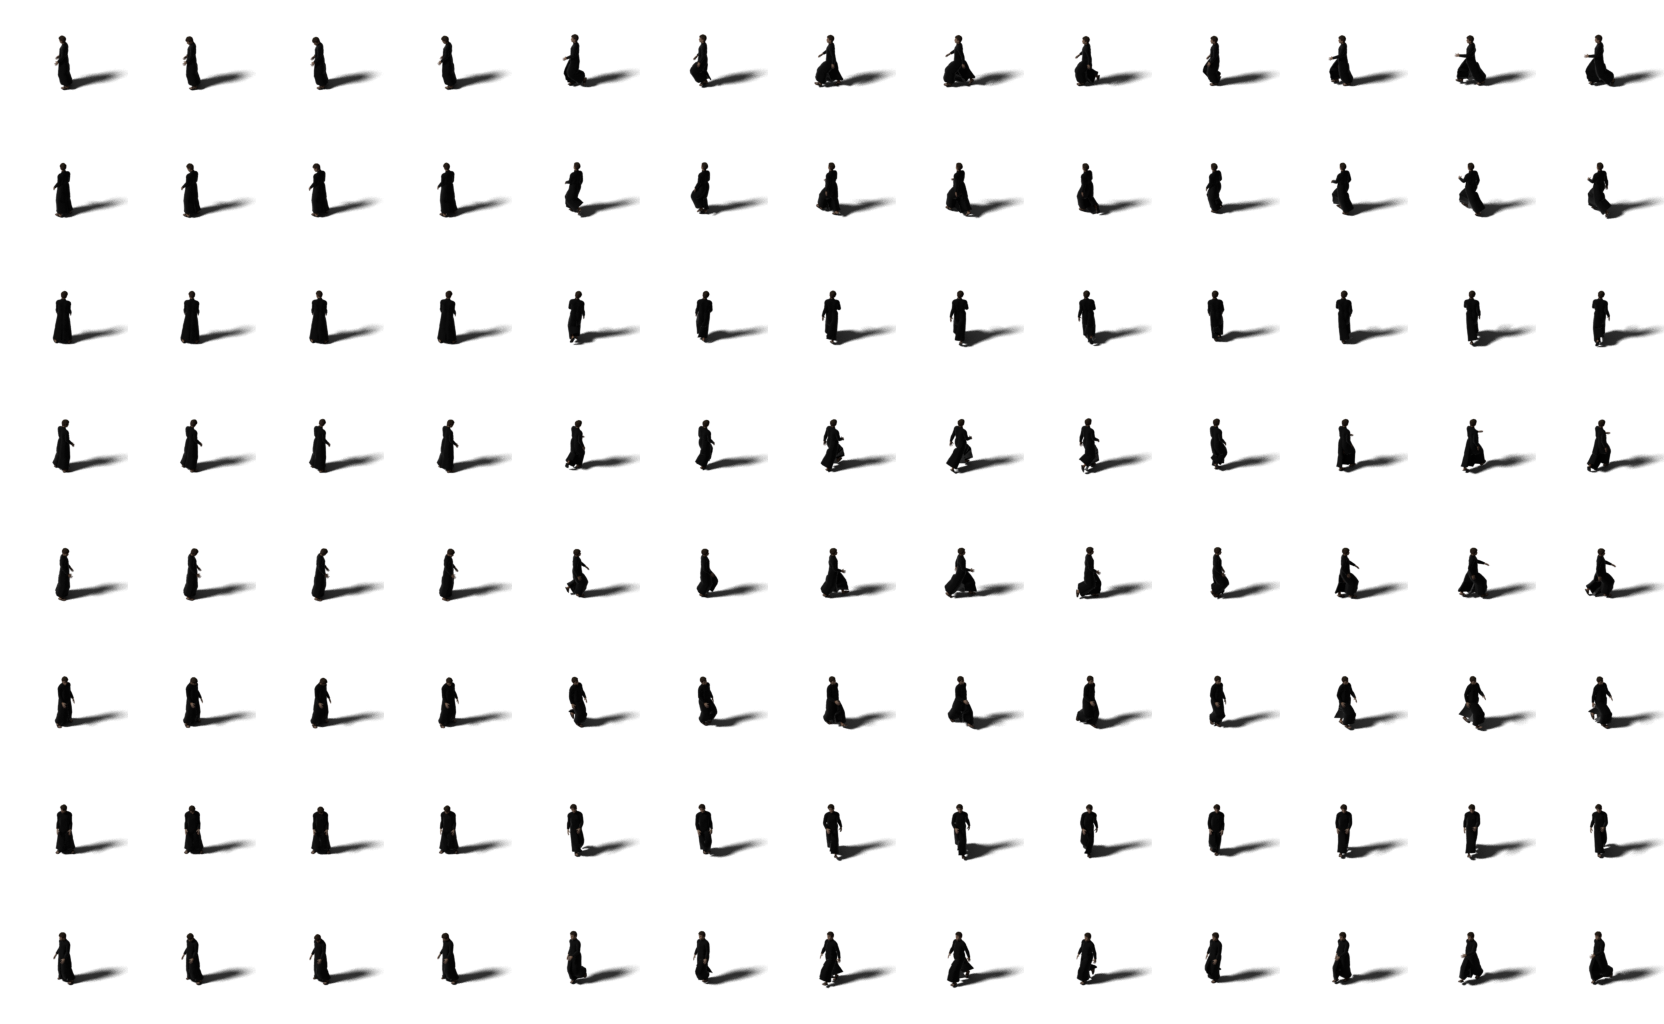
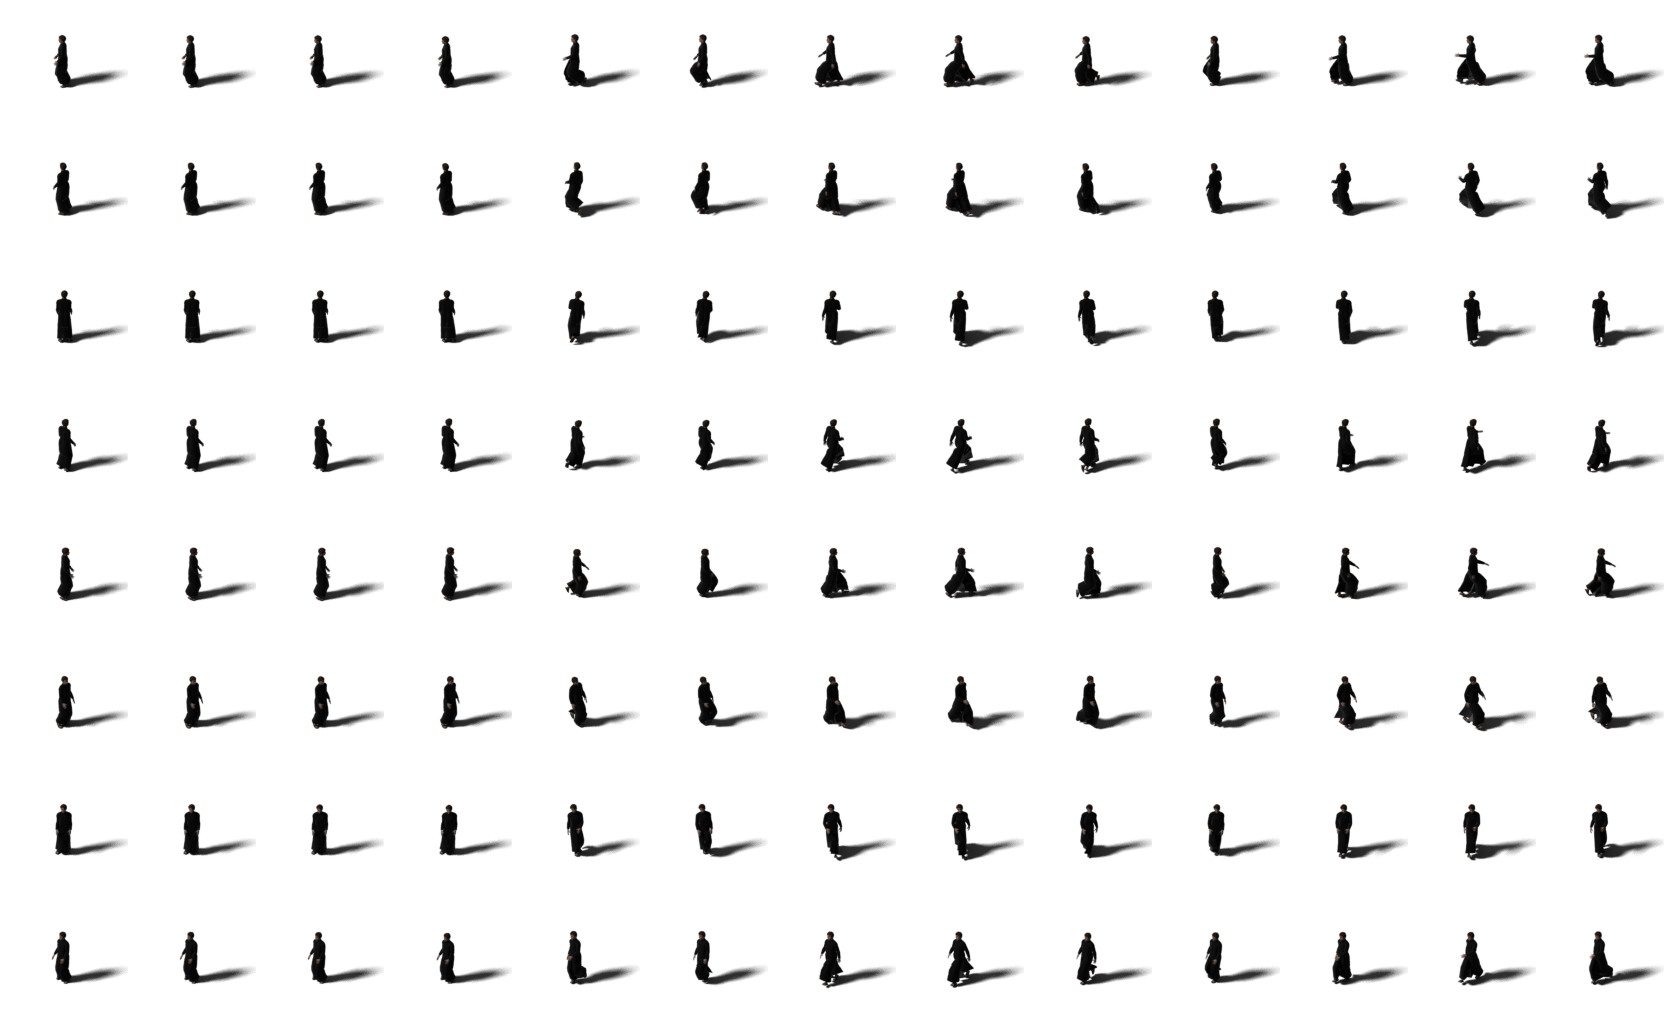
Less jerky idle motion

diff --git a/src/sprites/MovableSprite.js b/src/sprites/MovableSprite.js
@@ -108,7 +108,7 @@ export default class MovableSprite extends Phaser.GameObjects.Sprite {
         frames: this.scene.anims.generateFrameNumbers(
           this.name,
           {start: (i * this.sheetWidth), end: (i * this.sheetWidth + 3)}),
-        frameRate: 2,
+        frameRate: 5,
         repeat: -1,
         yoyo: true
       });
